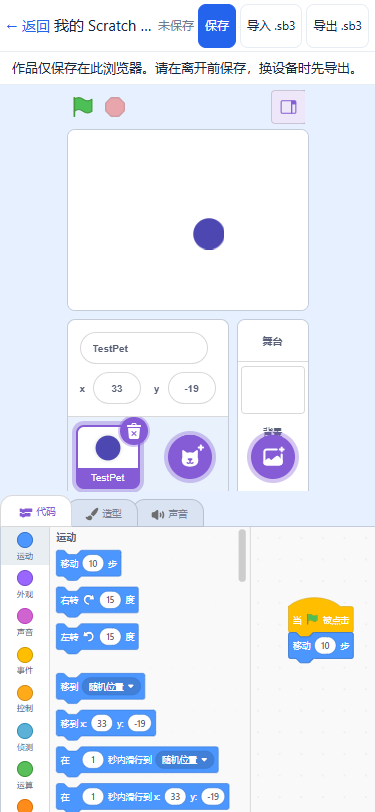
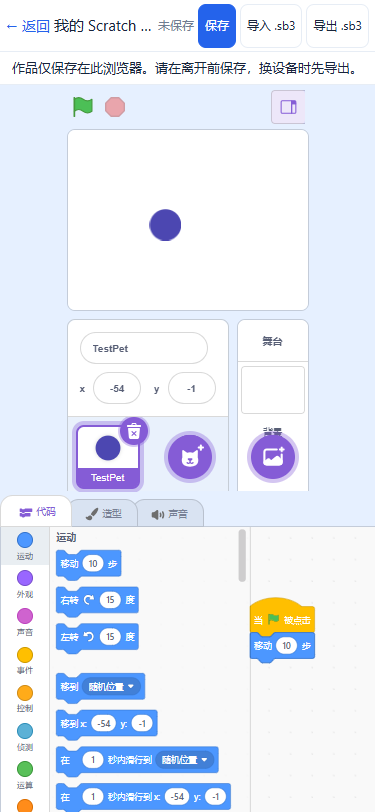
test(OPS-050): stabilize real Scratch touch coverage on Linux

diff --git a/apps/web/tests/e2e/scratch-create.spec.ts b/apps/web/tests/e2e/scratch-create.spec.ts
@@ -100,14 +100,19 @@ async function program(page: Page, gui: FrameLocator, touch = false) {
   const hat = await pickBlock(gui, /事件|Events/, /当.*被点击/)
   await hat.scrollIntoViewIfNeeded()
   const palette = (await gui.locator('.blocklyFlyout').first().boundingBox())!
+  const flyoutRight = palette.x + palette.width
   const block = (await hat.boundingBox())!
-  await drag(page, hat, palette.x + palette.width + 5, block.y + 80, touch)
+  await drag(page, hat, flyoutRight + (touch ? 24 : 5), block.y + 80, touch)
   const placed = workspace.locator('.blocklyDraggable').filter({ hasText: /当.*被点击/ }).first()
   await expect(placed).toBeVisible()
   const move = await pickBlock(gui, /运动|Motion/, /移动.*步/)
   const anchor = (await placed.boundingBox())!
   const motion = (await move.boundingBox())!
-  await drag(page, move, anchor.x, anchor.y + anchor.height + motion.height / 2 - 4, touch)
+  // In narrow mode the flyout overlaps part of the underlying canvas. Leave
+  // room below and beside the hat for the first gesture, then snap on canvas.
+  const dropX = touch ? Math.max(anchor.x, flyoutRight + 26) : anchor.x
+  const dropY = anchor.y + anchor.height + motion.height / 2 + (touch ? 28 : -4)
+  await drag(page, move, dropX, dropY, touch)
   const placedMove = workspace.locator('.blocklyDraggable').filter({ hasText: /移动.*步/ }).first()
   await expect(placedMove).toBeVisible()
   if (touch) {

diff --git a/docs/product/scratch-create/evidence/README.md b/docs/product/scratch-create/evidence/README.md
@@ -15,4 +15,6 @@
 
 [Python 归档与运行记录](python-roundtrip.json)包含导出源文件的 SHA-256、完整源码和重新导入后实测输出。浏览器还验证了编辑器搜索、撤销重做、字体大小、控制台输入、标准错误、异常行、手动停止、执行超时、引擎初始化失败、内存压力和恢复。两个编辑器均检查未保存内容的离开确认与本机写入失败后的重试。Scratch 双窗口用例核对旧版本拒写、导出，以及重新加载新版。
 
+首轮 [Ubuntu Scratch 作业](https://github.com/HelloMrDuan/kidsCoding/actions/runs/44669626569/job/136067218551) 的 375px 测试把第二块推到了素材面板交界处，未落入脚本区。触控用例由素材面板实际矩形计算安全落点，留出边缘空间，再用画布内真实触控手势吸附。最终仍以 `.sb3` 中的积木连接关系为断言。
+
 触控验收由 Playwright 在 Chrome 中执行。实际设备体验、预发布两个真实账号的完整流程、公开发布前的许可复核仍待验收。
